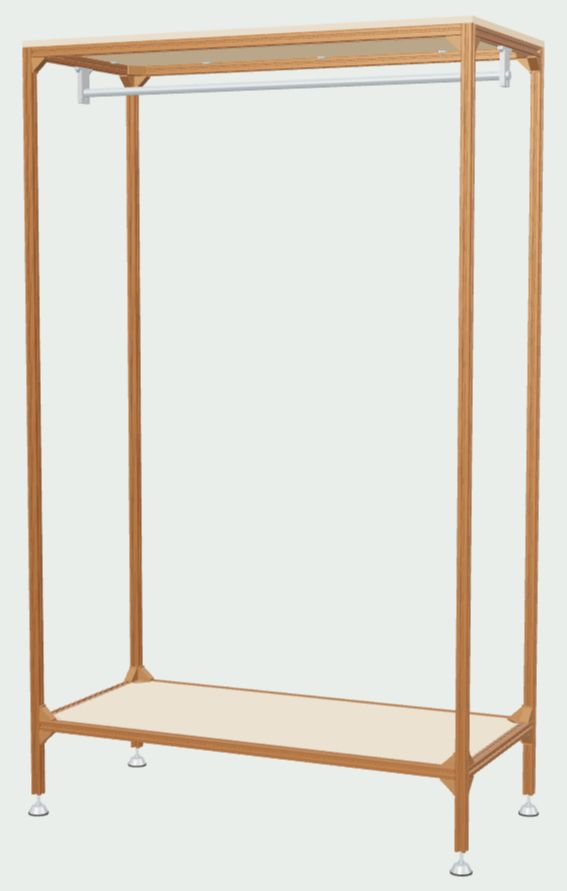
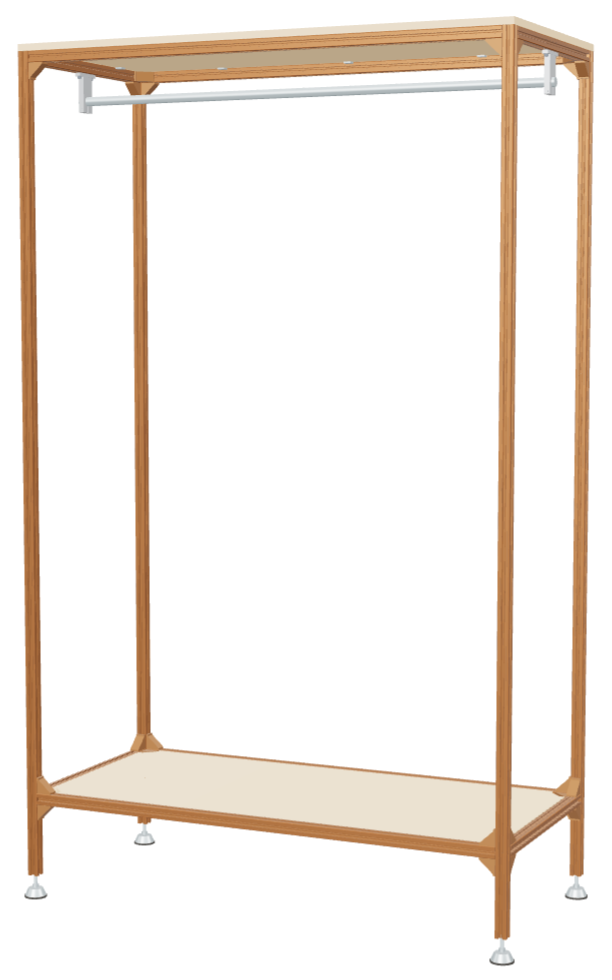
Redesign the assembly workspace around extrusion and plywood materials

Changed region(s): [[0.6296, 0.0, 0.9894, 1.0], [0.1199, 0.0303, 0.6596, 0.7879], [0.03, 0.0303, 0.4497, 0.9394]]

diff --git a/src/index.css b/src/index.css
@@ -3,19 +3,19 @@
 
 :root {
   color-scheme: light;
-  --ink: #202d29;
-  --muted: #53645c;
-  --line: #d3dcd4;
+  --ink: #262925;
+  --muted: #605d54;
+  --line: #cfcac0;
   --surface: #ffffff;
-  --surface-muted: #f2f5ef;
-  --workspace: #f4f4ed;
-  --model-surface: #e9eeea;
-  --accent: #24604c;
-  --accent-soft: #e3efe6;
-  --accent-line: #b3d0bc;
-  --nav: #203b34;
-  --radius: 0.625rem;
-  --panel-radius: 0.875rem;
+  --surface-muted: #f2efe8;
+  --workspace: #edeae2;
+  --model-surface: #e7e6e0;
+  --accent: #94451f;
+  --accent-soft: #faeddb;
+  --accent-line: #dbb791;
+  --nav: #2c2f2c;
+  --radius: .32rem;
+  --panel-radius: .55rem;
   --mono: "IBM Plex Mono", "Cascadia Mono", ui-monospace, monospace;
   color: var(--ink);
   background: var(--workspace);
@@ -62,7 +62,7 @@ button:not(:disabled, [aria-disabled="true"]), summary {
   min-block-size: 3.75rem;
   padding: 0.5rem 1.25rem;
   background: var(--nav);
-  color: #f3f7ef;
+  color: #fbf7ee;
 }
 
 .brand {
@@ -73,15 +73,9 @@ button:not(:disabled, [aria-disabled="true"]), summary {
 }
 
 .brand-mark {
-  display: grid;
-  flex: none;
-  place-items: center;
-  inline-size: 2.25rem;
-  block-size: 2.25rem;
-  border: 1px solid #80aa93;
-  border-radius: var(--radius);
-  background: #396b56;
-  color: white;
+  flex: none; inline-size: 2.1rem; aspect-ratio: 1;
+  background: radial-gradient(circle at center, var(--nav) 0 11%, transparent 12%), linear-gradient(145deg, #ffdfa1, #cfa267);
+  clip-path: polygon(0 0,38% 0,38% 10%,23% 10%,42% 31%,58% 31%,77% 10%,62% 10%,62% 0,100% 0,100% 38%,90% 38%,90% 23%,69% 42%,69% 58%,90% 77%,90% 62%,100% 62%,100% 100%,62% 100%,62% 90%,77% 90%,58% 69%,42% 69%,23% 90%,38% 90%,38% 100%,0 100%,0 62%,10% 62%,10% 77%,31% 58%,31% 42%,10% 23%,10% 38%,0 38%);
 }
 
 .brand h1 {
@@ -93,8 +87,8 @@ button:not(:disabled, [aria-disabled="true"]), summary {
   font-weight: 680;
 }
 
-.brand h1 span { font-size: 0.875rem; color: #bdd2c5; }
-.workspace-name { border-inline-start: 1px solid #547266; padding-inline-start: 1rem; color: #d4e1d8; font-size: 0.8125rem; }
+.brand h1 span { font-size: 0.875rem; color: #cbc9bc; }
+.workspace-name { border-inline-start: 1px solid #69695f; padding-inline-start: 1rem; color: #dedbd0; font-size: 0.8125rem; }
 .mobile-actions { display: none; margin-inline-start: auto; gap: 0.375rem; }
 
 .workspace {
@@ -147,11 +141,11 @@ button:not(:disabled, [aria-disabled="true"]), summary {
 }
 
 .ui-button svg { flex: none; }
-.ui-button:hover { background: var(--surface-muted); border-color: #95afa0; }
+.ui-button:hover { background: var(--surface-muted); border-color: #a59c8c; }
 .ui-button[aria-pressed="true"] { background: var(--accent-soft); border-color: var(--accent-line); color: var(--accent); }
-.header-button { border-color: #527567; background: #345348; color: #f5f9f3; min-block-size: 2.75rem; }
-.header-button:hover { border-color: #91b09c; background: #436958; }
-.header-button:focus-visible { outline-color: #d6eacb; }
+.header-button { border-color: #777770; background: #444741; color: #fffaf2; min-block-size: 2.75rem; }
+.header-button:hover { border-color: #aea799; background: #53564f; }
+.header-button:focus-visible { outline-color: #f6cc8e; }
 .icon-button { inline-size: 2.75rem; min-block-size: 2.75rem; padding: 0; }
 
 .catalog { display: flex; flex-direction: column; block-size: 100%; min-block-size: 0; }
@@ -260,7 +254,7 @@ button:not(:disabled, [aria-disabled="true"]), summary {
   border: 1px solid var(--accent-line);
   border-radius: 0.5rem;
   background: var(--accent-soft);
-  color: #315c47;
+  color: #72401f;
   font-size: 0.75rem;
   line-height: 1.5;
 }
@@ -272,8 +266,8 @@ button:not(:disabled, [aria-disabled="true"]), summary {
   min-inline-size: 0;
   border-block: 1px solid var(--line);
   background:
-    radial-gradient(circle at center, #fcfcf6b8, transparent 75%),
-    radial-gradient(circle, #83998933 0.75px, transparent 0.95px) 0 0 / 1rem 1rem,
+    radial-gradient(circle at center, #fffdf5b8, transparent 75%),
+    radial-gradient(circle, #84868230 0.75px, transparent 0.95px) 0 0 / 1rem 1rem,
     var(--model-surface);
 }
 .stage-label {
@@ -373,7 +367,7 @@ button:not(:disabled, [aria-disabled="true"]), summary {
   background: var(--surface);
   color: var(--ink);
   overflow: clip;
-  box-shadow: 0 -0.25rem 2rem #202d2926;
+  box-shadow: 0 -0.25rem 2rem #26292526;
 }
 .sheet-header { display: flex; align-items: center; justify-content: space-between; padding: 0.5rem 1rem; border-block-end: 1px solid var(--line); }
 .sheet-header h2 { font-weight: 700; font-size: 1.0625rem; }
@@ -407,7 +401,7 @@ button:not(:disabled, [aria-disabled="true"]), summary {
 .site-nav a {
   display: inline-flex; align-items: center; min-block-size: 2rem;
   padding-inline: 0.75rem; border-radius: var(--radius);
-  color: #d3e0d5; text-decoration: none; font-size: 0.875rem;
+  color: #e4dfd4; text-decoration: none; font-size: 0.875rem;
 }
 .site-nav a:hover { background: rgb(255 255 255 / 0.08); color: #fff; }
 .site-nav a[aria-current="page"] { background: rgb(255 255 255 / 0.14); color: #fff; }
@@ -484,7 +478,7 @@ button:not(:disabled, [aria-disabled="true"]), summary {
 .step-slider input { accent-color: var(--accent); }
 .step-nav .ui-button:disabled { opacity: .55; }
 .step-nav .ui-button:last-child:not(:disabled) { background: var(--accent); border-color: var(--accent); color: white; }
-.app-header :focus-visible { outline-color: #d6eacb; }
+.app-header :focus-visible { outline-color: #f6cc8e; }
 @media (width < 44rem) {
   .case-intro { grid-template-columns: minmax(0, 1fr); }
   .case-preview { grid-template-columns: 5rem auto; grid-template-rows: auto; justify-content: start; gap: 1rem; padding: .5rem 1rem; border-inline-start: 0; border-block-start: 1px solid var(--line); }
@@ -566,4 +560,96 @@ button:not(:disabled, [aria-disabled="true"]), summary {
   inline-size: 100%; aspect-ratio: 16 / 10; object-fit: cover;
   border-radius: calc(var(--radius) * 0.8); background: var(--model-surface);
   border: 1px solid var(--line);
+}
+
+/* Material finishes are confined to edges and illustration surfaces. */
+:root {
+  --ply-edge: linear-gradient(to bottom, #e4c999 0 2px, #936c49 2px 3px, #ecd4a8 3px 5px, #ac8357 5px 6px);
+  --aluminium: linear-gradient(to bottom, #fafbf9, #dedfd9 48%, #e7e7e2 52%, #d1d2ca);
+  --drawing-grid: linear-gradient(#7c796c13 1px, transparent 1px), linear-gradient(90deg, #7c796c13 1px, transparent 1px);
+}
+.app-header {
+  background: linear-gradient(110deg, #232724, #383b36);
+  border-block-end: 3px solid #bfa378; box-shadow: 0 1px 0 #887962;
+}
+.brand h1 span { font-family: var(--mono); font-weight: 500; }
+.site-nav a[aria-current="page"] { background: #53544b; box-shadow: inset 0 -2px #e7c087; }
+.workspace {
+  background: repeating-linear-gradient(0deg, #e4e3db 0 1px, #e9e8e1 1px 3px);
+}
+.model-panel, .workspace-rail { box-shadow: 0 2px 5px #342b1910; }
+.catalog-rail .catalog-tools {
+  background: linear-gradient(to bottom, #fcfaf6, #f5f1e8);
+}
+.model-heading { border-block-start: 5px solid; border-image: var(--ply-edge) 6; }
+.model-stage, .step-stage {
+  background: var(--drawing-grid), radial-gradient(ellipse at 50% 38%, #faf9f4, #e7e5db);
+  background-size: 24px 24px, 24px 24px, auto;
+}
+.viewer-toolbar, .step-controls { background: var(--aluminium); }
+.viewer-toolbar .ui-button, .step-controls .ui-button { background: #fafaf5; border-color: #b7b8ad; }
+.viewer-toolbar .ui-button[aria-pressed="true"] { color: white; border-color: var(--nav); background: var(--nav); }
+.viewer-status { background: #eeede6; }
+.catalog-item[aria-current="true"] { box-shadow: inset 3px 0 var(--accent); }
+.guide-page { background-color: #f3f0e8; }
+.material-intro, .case-intro {
+  position: relative; border-radius: var(--panel-radius); border: 1px solid #c9bfaf;
+  box-shadow: 0 3px 8px #4a38200d; overflow: hidden;
+}
+.material-intro::after, .case-intro::after {
+  content: ""; position: absolute; inset: auto 0 0; height: 6px; background: var(--ply-edge); pointer-events: none;
+}
+.material-intro {
+  display: grid; grid-template-columns: 1fr 1fr; background: #292c29; color: #fff9eb;
+}
+.material-intro-copy, .case-intro-copy { padding: clamp(1.5rem, 4vw, 3.5rem); }
+.material-intro-copy { align-self: center; }
+.guide-intro.material-intro p { color: #dfddd3; }
+.material-intro .guide-kicker, .case-intro .guide-kicker {
+  display: flex; gap: .6rem; align-items: center; font-size: .75rem; letter-spacing: .12em;
+}
+.material-intro .guide-kicker::before, .case-intro .guide-kicker::before {
+  content: ""; width: 1.6rem; height: 2px; background: #c59860;
+}
+.material-intro h2, .case-intro h2 {
+  margin-block: .8rem; font-size: clamp(1.8rem, 3.6vw, 3.1rem); letter-spacing: -.045em; font-weight: 720;
+}
+.material-photo { width: 100%; height: 100%; min-height: 14rem; object-fit: cover; object-position: 68% center; }
+.material-case-link { display: inline-flex; align-items: center; gap: .4rem; margin-block-start: 1.2rem; color: #ffdaa2; font-weight: 600; }
+.guide-card { padding: .75rem .75rem 1rem; box-shadow: 0 2px 3px #44391f09; }
+.guide-card-title, .guide-card-summary, .guide-card-meta { padding-inline: .3rem; }
+.guide-case .guide-card { display: grid; grid-template-columns: 6rem 1fr; align-items: center; gap: .25rem 1rem; }
+.guide-rack-preview { grid-row: span 3; height: 6rem; justify-self: center; mix-blend-mode: multiply; }
+.case-intro { grid-template-columns: minmax(0, 1.55fr) minmax(13rem, 1fr); background: #fffcf5; }
+.case-preview {
+  grid-template-rows: minmax(0, 1fr) auto auto; background: var(--drawing-grid), #e9e7dc;
+  background-size: 18px 18px; border-color: #cbc6b8; padding-block: 1.1rem 1.4rem;
+}
+.case-preview img { height: clamp(11rem, 20vw, 16rem); mix-blend-mode: multiply; }
+.case-preview small { color: var(--muted); font: .72rem/1.6 var(--mono); }
+.case-block { border-radius: .45rem; padding: clamp(1rem, 2.4vw, 2rem); margin-block-start: 1.25rem; }
+.case-block h3 { display: flex; align-items: center; gap: .65rem; font-size: 1.14rem; }
+.case-block h3::before { content: ""; width: 4px; height: 1em; background: #ab7849; }
+.case-table thead { background: var(--aluminium); }
+.case-steps { gap: 0; }
+.case-steps li { padding-block: 1rem; border-block-end: 1px solid var(--line); }
+.case-steps li:last-child { border: 0; }
+.case-step-index { border-radius: .25rem; background: #ede2cf; color: #663f22; font-family: var(--mono); }
+.step-panel { background: #fffcf6; }
+.step-detail { background: #f6efe2; border-inline-start: 3px solid #bb8954; }
+.case-intro .ui-button, .material-case-link { border-radius: .35rem; }
+@media (min-width: 68rem) {
+  .catalog-rail .catalog-tools::before {
+    content: ""; display: block; height: clamp(3rem, 8vh, 5.5rem); margin: -1rem -1rem .1rem;
+    background: url("/guide/material-study.webp") center 57% / cover; border-block-end: 3px solid #bea27b;
+  }
+}
+@media (width < 44rem) {
+  .material-intro, .case-intro { grid-template-columns: 1fr; }
+  .material-photo { min-height: 0; height: 9rem; }
+  .case-preview { grid-template-columns: 5rem 1fr; grid-template-rows: auto auto; justify-items: start; gap: .15rem 1rem; padding: .7rem 1.25rem 1rem; }
+  .case-preview img { grid-row: span 2; height: 5rem; }
+  .case-preview small { align-self: end; }
+  .case-preview span { align-self: start; }
+  .case-intro-copy, .material-intro-copy { padding: 1.25rem; }
 }

diff --git a/src/routes/Guide.tsx b/src/routes/Guide.tsx
@@ -8,13 +8,16 @@ export function Guide() {
     <div className="app-shell">
       <SiteHeader active="guide" />
       <main className="guide-page" id="guide-main">
-        <header className="guide-intro">
-          <p className="guide-kicker">搭建指南</p>
-          <h2>从一个结构出发，选连接方式</h2>
-          <p>
-            先选你要做的结构，再看每种连接的适用型材、加工要求和装配方向。官方图档或适配没有逐点核对的字段，
-            统一标「待核对」，不写死。
-          </p>
+        <header className="guide-intro material-intro">
+          <div className="material-intro-copy">
+            <p className="guide-kicker">搭建指南</p>
+            <h2>铝型材怎么搭？</h2>
+            <p>
+              从接梁、装板或加斜撑开始，比较连接件、加工要求和工具进入方向。标有「待核对」的尺寸，动手前请对照对应型号的图纸。
+            </p>
+            <Link className="material-case-link" to="/case/clothes-rack">查看铝型材与海洋板衣架案例 <ChevronRight size={16} aria-hidden="true" /></Link>
+          </div>
+          <img className="material-photo" src="/guide/material-study.webp" alt="" />
         </header>
         <ul className="guide-tasks">
           {guideTasks.map((task) => (
@@ -34,6 +37,7 @@ export function Guide() {
         <section className="guide-case">
           <h3>完整案例</h3>
           <Link className="guide-card" to="/case/clothes-rack">
+            <img className="guide-rack-preview" src="/guide/v20-assembly.png" alt="" loading="lazy" />
             <span className="guide-card-title">衣架 · 嘉立创 V20</span>
             <span className="guide-card-summary">2020 落地框架 + Ø16 光轴。含切料、购物车、加工核对、装配顺序和收尾检查。</span>
             <span className="guide-card-meta">打开案例<ChevronRight aria-hidden="true" size={15} /></span>

diff --git a/src/routes/Case.tsx b/src/routes/Case.tsx
@@ -58,7 +58,7 @@ export function Case() {
         <header className="guide-intro case-intro">
           <div className="case-intro-copy">
             <p className="guide-kicker">完整案例 · 嘉立创 V20</p>
-            <h2>{clothesRack.title}</h2>
+            <h2>铝型材落地衣架</h2>
             <p>{clothesRack.summary}</p>
             <p className="case-links">
               <Link className="ui-button case-primary" to="/guide/step/clothes-rack"><Box size={16} aria-hidden="true" />跟着 3D 装衣架</Link>
@@ -72,6 +72,7 @@ export function Case() {
           </div>
           <Link className="case-preview" to="/?sample=clothes-rack">
             <img src="/guide/v20-assembly.png" alt="V20 衣架整架视图，光轴位于顶板下方，底板嵌在下框内" />
+            <small>框架平面 · 900 × 420 mm</small>
             <span>在 3D 中查看整架 <ArrowUpRight aria-hidden="true" size={15} /></span>
           </Link>
         </header>

diff --git a/src/components/SiteHeader.tsx b/src/components/SiteHeader.tsx
@@ -1,4 +1,3 @@
-import { Box } from "lucide-react"
 import { Link } from "react-router-dom"
 
 type SiteHeaderProps = {
@@ -10,7 +9,7 @@ export function SiteHeader({ active }: SiteHeaderProps) {
   return (
     <header className="app-header">
       <Link className="brand" to="/" aria-label="回到模型库">
-        <span className="brand-mark"><Box aria-hidden="true" size={20} /></span>
+        <span className="brand-mark" aria-hidden="true" />
         <h1>铝构 <span>AluJoint</span></h1>
       </Link>
       <nav className="site-nav" aria-label="主导航">

diff --git a/src/App.tsx b/src/App.tsx
@@ -131,7 +131,7 @@ export function App() {
       <a className="skip-link" href="#model-view">跳到三维视图</a>
       <header className="app-header">
         <div className="brand">
-          <span className="brand-mark"><Box aria-hidden="true" size={20} /></span>
+          <span className="brand-mark" aria-hidden="true" />
           <h1>铝构 <span>AluJoint</span></h1>
         </div>
         <span className="workspace-name">三维装配工作台</span>
